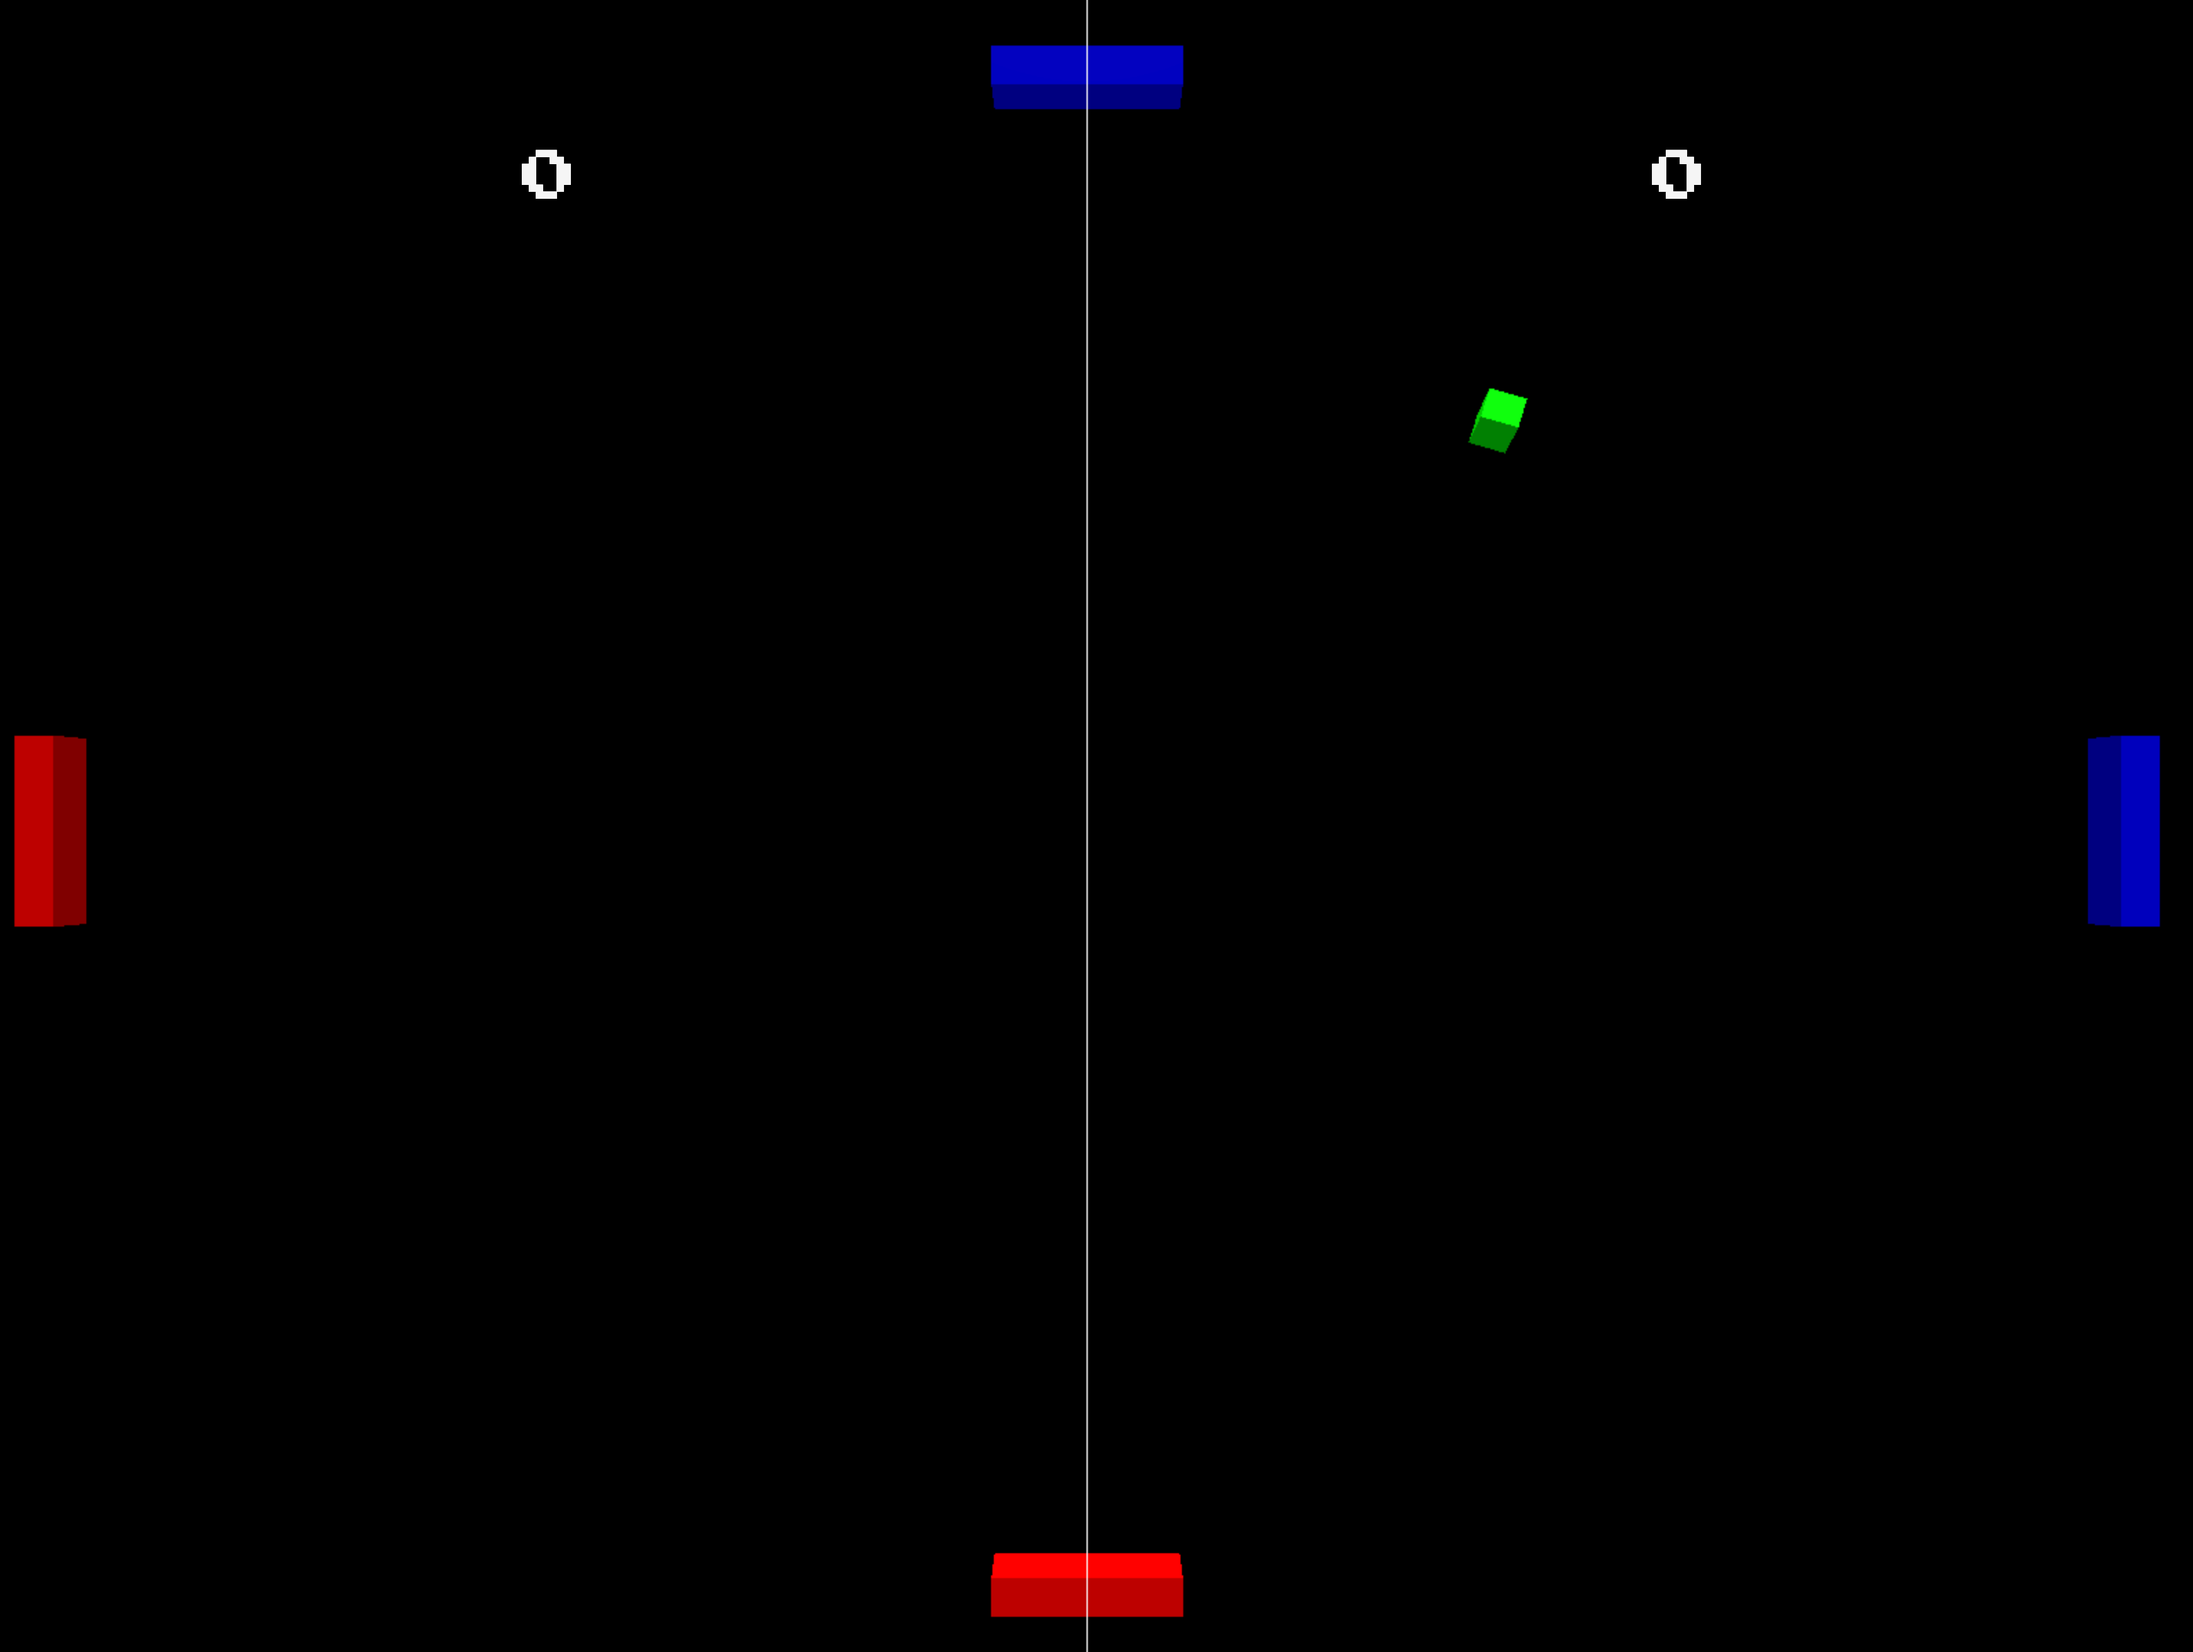
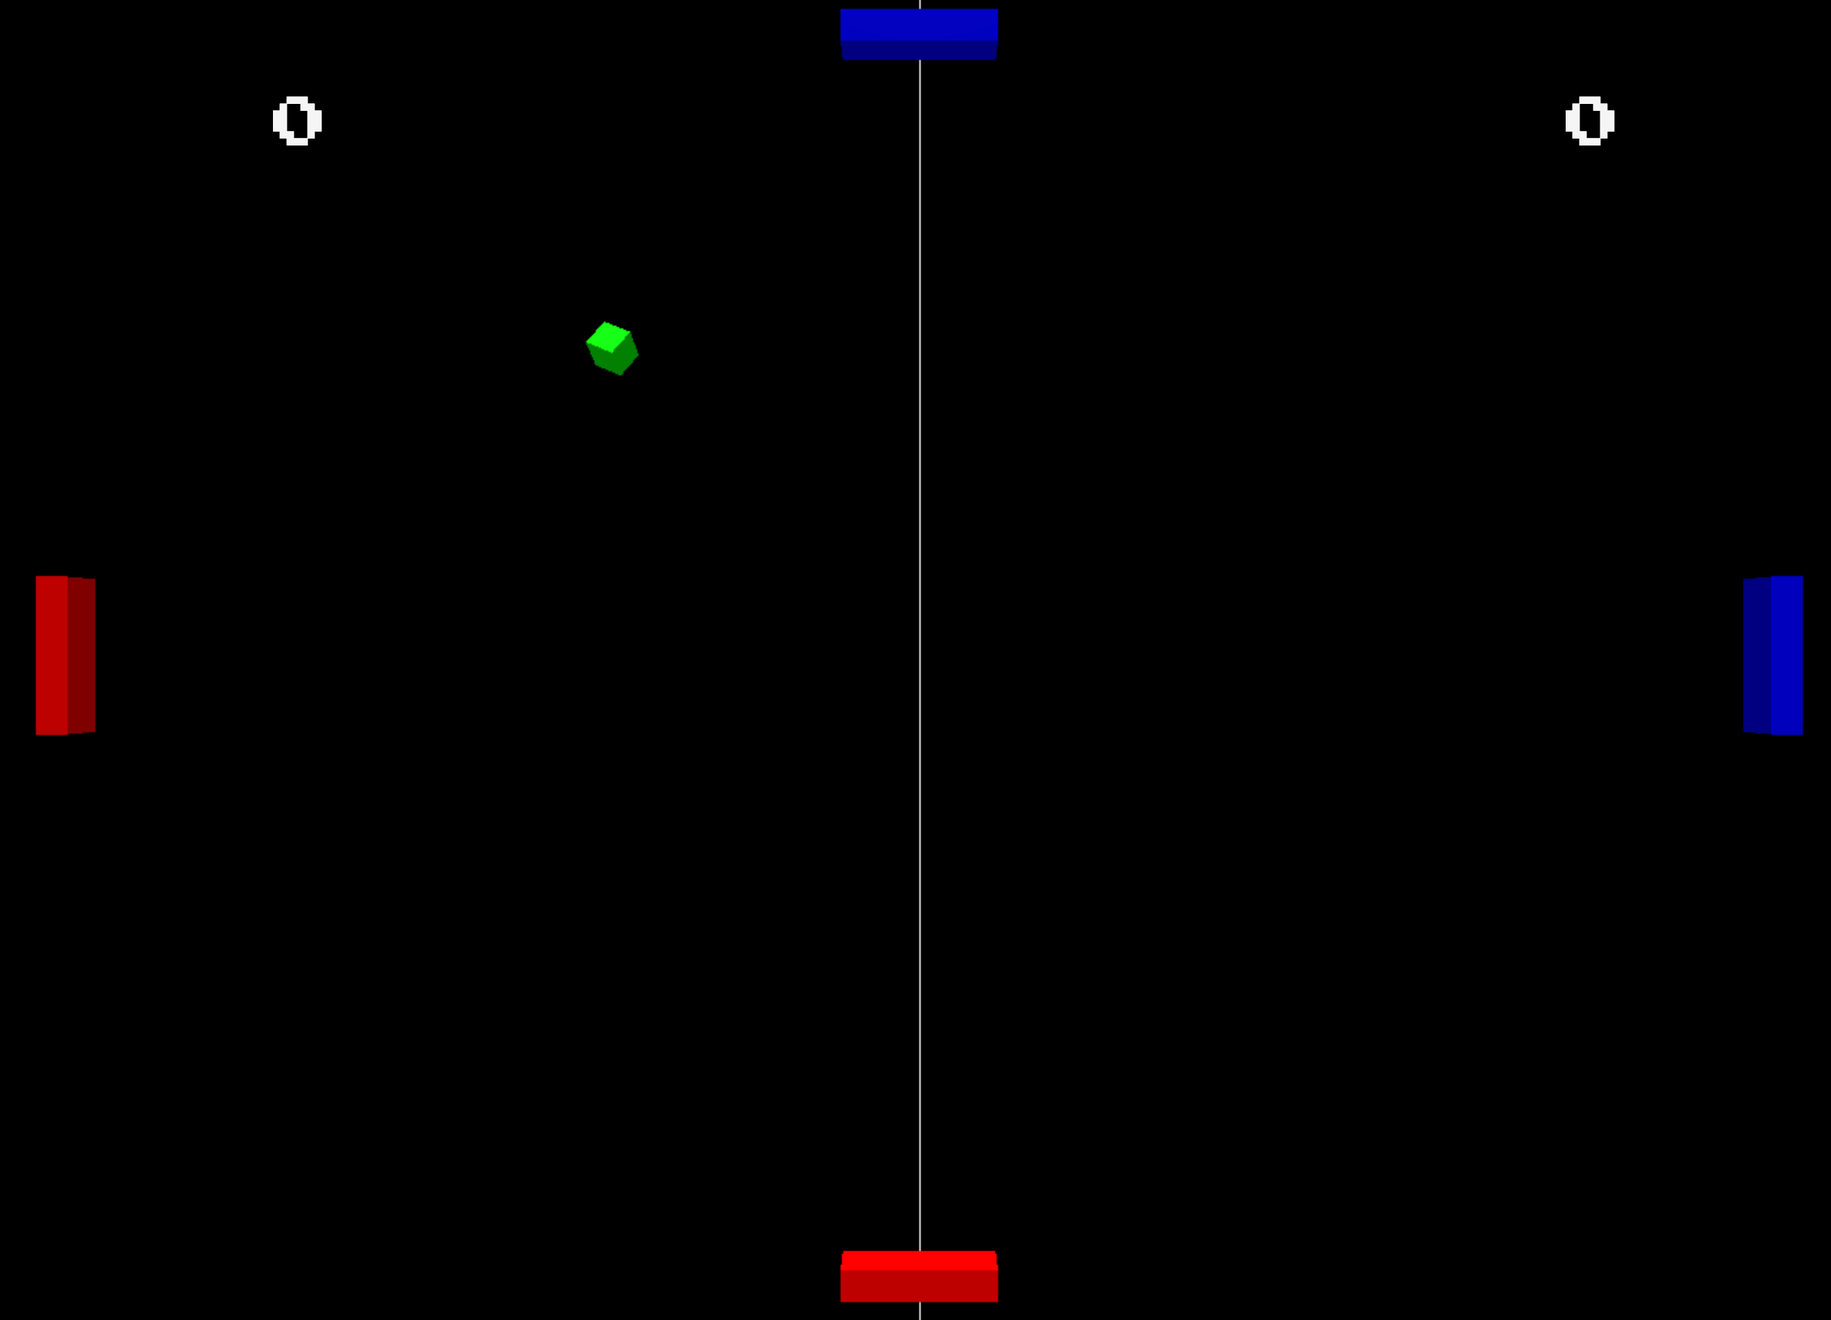
modified the line in pong 2v2 and also the image

diff --git a/transcendence/app/static/js/LocalGame/local2v2Game.js b/transcendence/app/static/js/LocalGame/local2v2Game.js
@@ -18,8 +18,8 @@ class Local2v2Game {
 
 		const lineMaterial = new THREE.LineBasicMaterial( { color: 0xFFFFFF } );
 		const points = [];
-		points.push(new THREE.Vector3(0, -50, 10));
-		points.push(new THREE.Vector3(0, 50, 10));
+		points.push(new THREE.Vector3(0, -50, -1));
+		points.push(new THREE.Vector3(0, 50, -1));
 		const lineGeometry = new THREE.BufferGeometry().setFromPoints(points);
 		this.line = new THREE.Line(lineGeometry, lineMaterial);
 		this.scene.add(this.line);

diff --git a/transcendence/app/static/css/pong2v2.css b/transcendence/app/static/css/pong2v2.css
@@ -20,6 +20,7 @@
 	background-image: url("/static/images/game.png");
 	background-size: cover;
 	background-repeat: no-repeat;
+	background-position: center;
 }
 
 .player-place {
